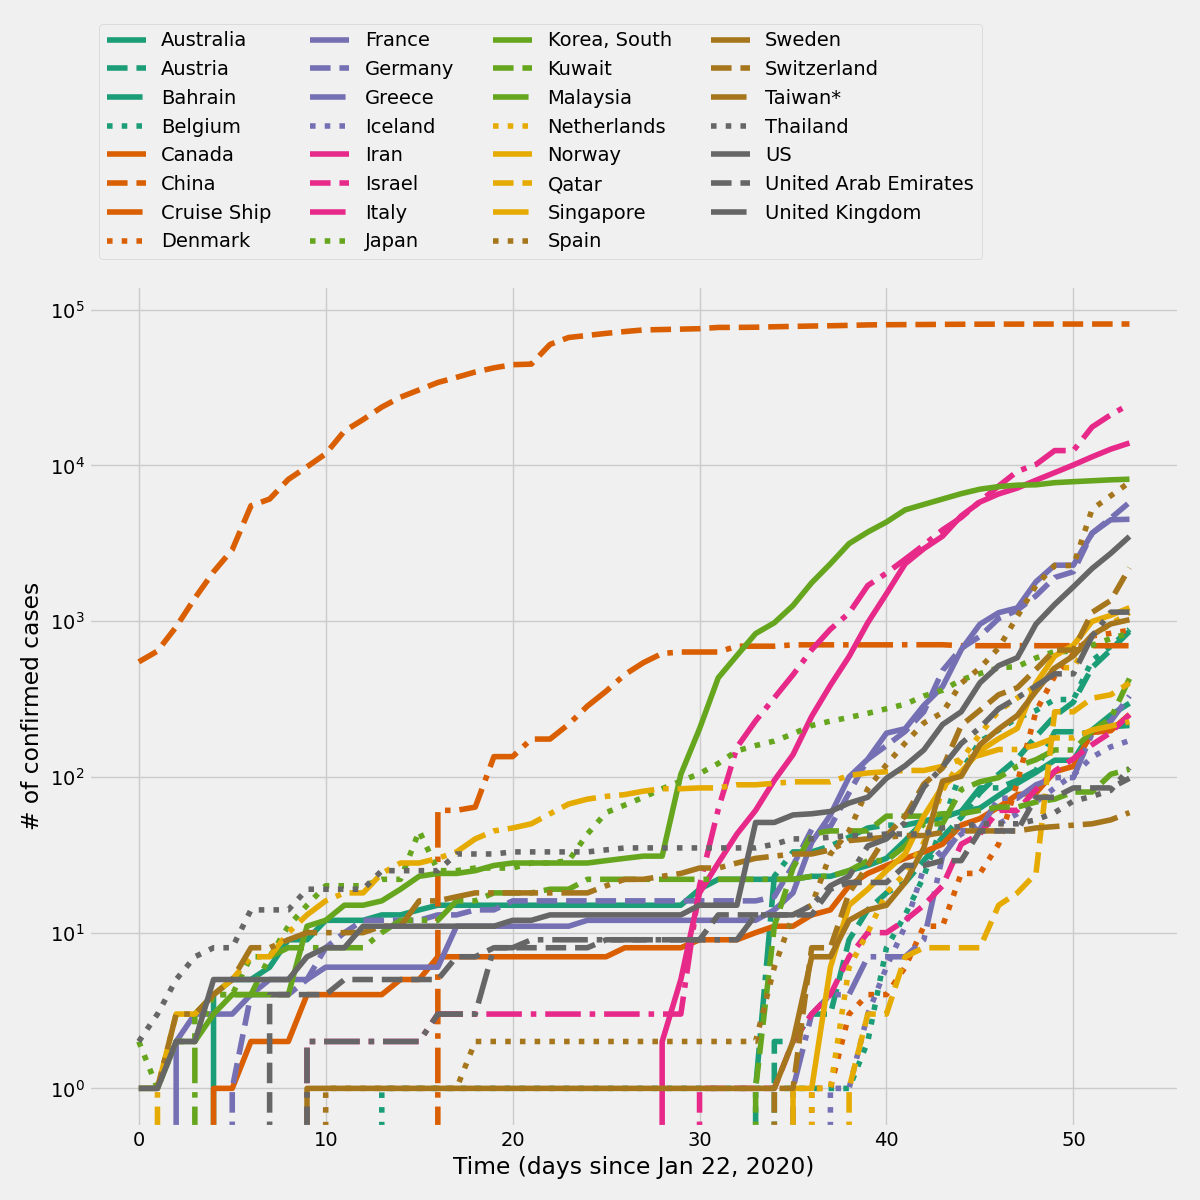
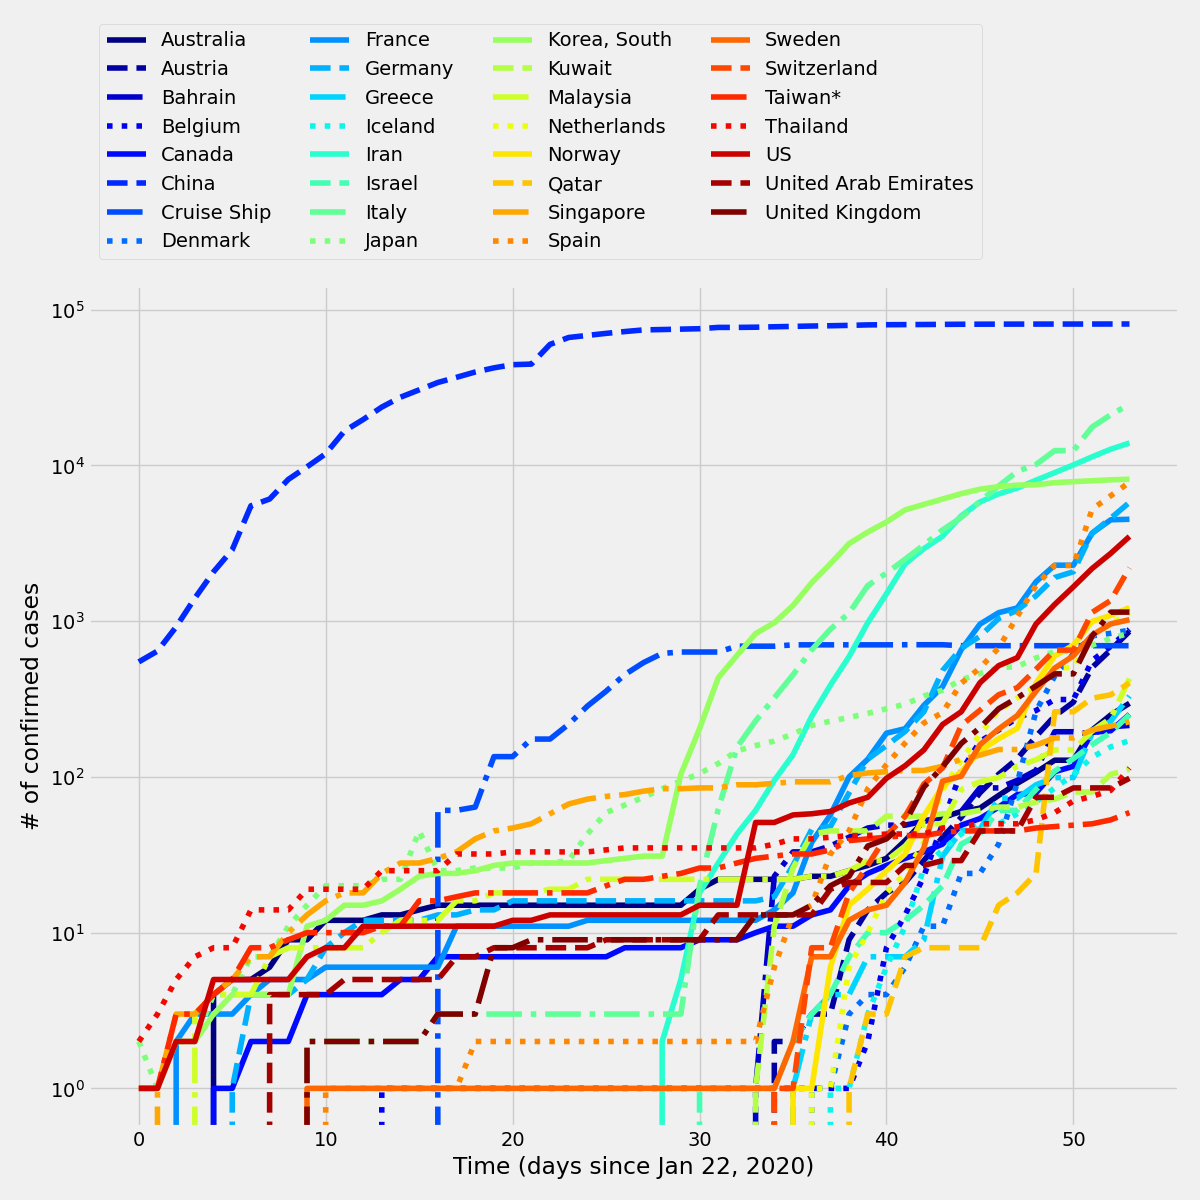
colors

diff --git a/exp/viz.py b/exp/viz.py
@@ -35,7 +35,7 @@ targets = []
 
 fig = plt.figure(figsize=(12, 12))
 ax = fig.add_subplot(111)
-cm = plt.get_cmap('Dark2')
+cm = plt.get_cmap('jet')
 NUM_COLORS = 0
 LINE_STYLES = ['solid', 'dashed', 'dashdot', 'dotted']
 NUM_STYLES = len(LINE_STYLES)
@@ -49,8 +49,9 @@ for val in np.unique(confirmed["Country/Region"]):
     if cases.sum() > MIN_CASES:
         NUM_COLORS += 1
 
-ax.set_prop_cycle('color', [cm(i) for i in np.linspace(0, 1, NUM_COLORS)])
+colors = [cm(i) for i in np.linspace(0, 1, NUM_COLORS)]
 legend = []
+handles = []
 
 for val in np.unique(confirmed["Country/Region"]):
     df = data.filter_by_attribute(
@@ -61,13 +62,15 @@ for val in np.unique(confirmed["Country/Region"]):
     if cases.sum() > MIN_CASES:
         i = len(legend)
         lines = ax.plot(cases, label=labels[0,1])
+        handles.append(lines[0])
         lines[0].set_linestyle(LINE_STYLES[i%NUM_STYLES])
+        lines[0].set_color(colors[i])
         legend.append(labels[0, 1])
 
 ax.set_ylabel('# of confirmed cases')
 ax.set_xlabel("Time (days since Jan 22, 2020)")
 
 ax.set_yscale('log')
-ax.legend(legend, bbox_to_anchor=(0., 1.02, 1., .102), loc=3, ncol=4)
+ax.legend(handles, legend, bbox_to_anchor=(0., 1.02, 1., .102), loc=3, ncol=4)
 plt.tight_layout()
 plt.savefig('results/cases_by_country.png')
